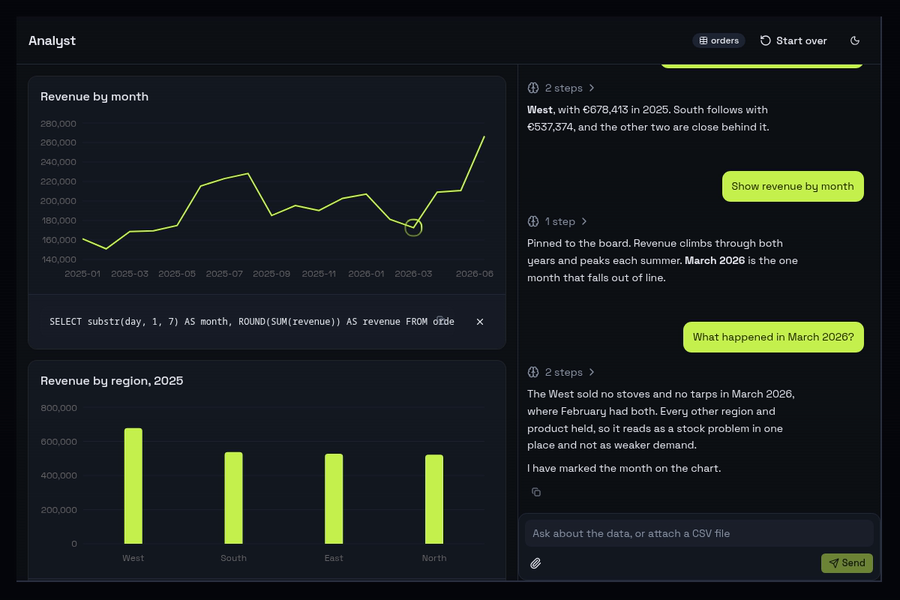
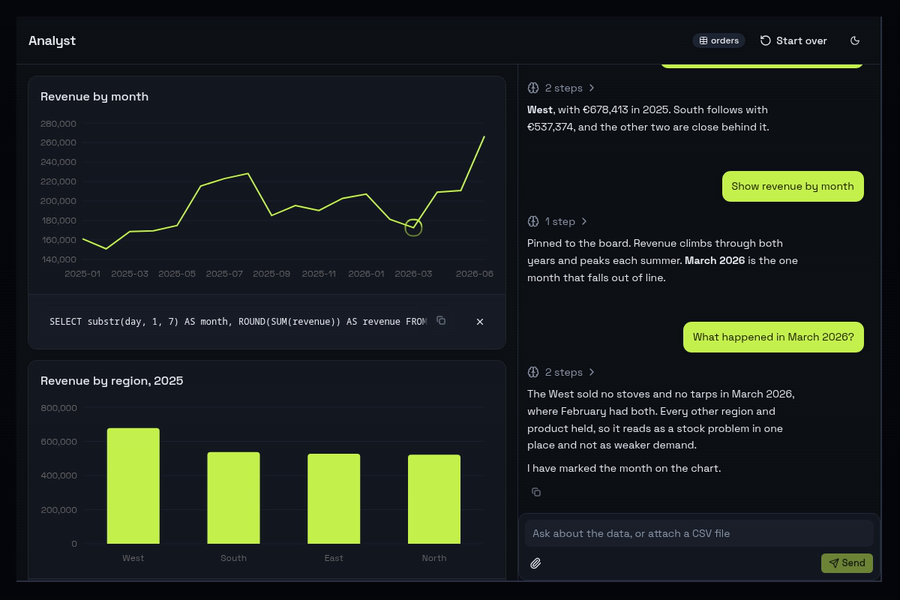
chore: the examples after the fixes they led to
The analyst is recorded again, with bars as wide as a chart of four now
draws them and its queries clear of the copy button. Its test reads a
failed answer's error from the message, where it is kept. The claims
example takes its claim's number from s.params as the number it is.

diff --git a/examples/analyst/test_analyst.py b/examples/analyst/test_analyst.py
@@ -50,8 +50,10 @@ QUIET: Any = SimpleNamespace(tool=_step)
 
 
 def told(page: Page, words: str) -> bool:
-    """Whether the last answer ended with an error that says this."""
-    return any(c.get("type") == "error" and words in c["errorText"] for c in page.stream)
+    """Whether the last answer has an error that says this. It is kept
+    with the message, so it is there after a reload as well."""
+    parts = page.session.chat("analyst").messages[-1].parts
+    return any(p["type"] == "error" and words in p["errorText"] for p in parts)
 
 
 # ------------------------------------------------------------- the script

diff --git a/examples/claims/app.py b/examples/claims/app.py
@@ -132,7 +132,7 @@ def me(s: mw.Session[State]) -> Person:
 
 def this_claim(s: mw.Session[State]) -> Claim:
     """The claim the page is about."""
-    return CLAIMS.all[int(s.params["claim_id"])]
+    return CLAIMS.all[s.params["claim_id"]]
 
 
 def today(s: mw.Session[State]) -> date:

diff --git a/examples/claims/README.md b/examples/claims/README.md
@@ -86,9 +86,8 @@ browser may keep the picture, and asks the route again each time before
 it shows it.
 
 What the receipt field takes, a picture of 5 MB at most, is said on the
-model, with `json_schema_extra`. That is where the server reads it, so
-an upload that did not come through the form's own button is held to it
-as well.
+model, with `json_schema_extra`. The server holds every upload to it,
+also one that did not come through the form's own button.
 
 ## What it leaves out
 
